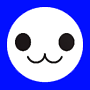
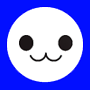
SidePanel: Player Turn Animation

Changed region(s): [[0.2889, 0.5778, 0.7111, 0.7111], [0.1556, 0.3556, 0.3778, 0.5778], [0.6444, 0.3556, 0.8444, 0.5778]]

diff --git a/src/GUI/SidePanel.java b/src/GUI/SidePanel.java
@@ -12,6 +12,8 @@ import javax.swing.border.Border;
 
 public class SidePanel extends JPanel {
 
+	JLabel turnDisplay;
+	
 	private ArrayList<JButton> buttons;
 	
 	public SidePanel(JFrame mainframe) {
@@ -31,18 +33,14 @@ public class SidePanel extends JPanel {
 		GridBagConstraints gbc = new GridBagConstraints();
 		gbc.insets = new Insets(0,0,0,0);
 
-		//cat button - this is temporary holder for player1/player2 turn
-		JButton catButton = new JButton(new ImageIcon(getClass().getResource("resource/button-cat-player-turn.png")));
-		//exitButton.setActionCommand("Exit");
-		catButton.setToolTipText("Random button");
-		catButton.setSelectedIcon(new ImageIcon(getClass().getResource("resource/button-cat-pc.png")));
-		catButton.setContentAreaFilled(false);
-		catButton.setBorder(null);
+		//player 1 or 2 turn display
+		turnDisplay = new JLabel(new ImageIcon(getClass().getResource("resource/player1-turn.png")));
+		turnDisplay.setToolTipText("Player turn");
+		turnDisplay.setBorder(null);
 		gbc.gridx = 0;
 		gbc.gridy = 0;
-		gbc.anchor = GridBagConstraints.FIRST_LINE_END;
-		add(catButton, gbc);
-		buttons.add(catButton);
+		gbc.anchor = GridBagConstraints.CENTER;
+		add(turnDisplay, gbc);
 		
 		// this is where other buttons should go
 		JLabel padding1 = new JLabel();
@@ -124,4 +122,12 @@ public class SidePanel extends JPanel {
 		return buttons;
 	}
 	
+	public void updateTurnDisplay(int playerNum) {
+		
+		if (playerNum == 1) {
+			turnDisplay.setIcon(new ImageIcon(getClass().getResource("resource/player1-turn.png")));
+		} else {
+			turnDisplay.setIcon(new ImageIcon(getClass().getResource("resource/player2-turn.png")));
+		}
+	}
 }

diff --git a/src/Game/BoardMechanics.java b/src/Game/BoardMechanics.java
@@ -390,10 +390,12 @@ public class BoardMechanics implements ActionListener, KeyListener{
 	public void update() {
 		
 		System.out.println("update running.....");
-		
+		rightPanel.updateTurnDisplay(getCurrentPlayer());
 		//check if need to do player move
-		if ( isPlayerAI(getCurrentPlayer()) )
-				doAIMove();
+		if ( isPlayerAI(getCurrentPlayer()) ) {
+			doAIMove();
+			rightPanel.updateTurnDisplay(getCurrentPlayer());
+		}
 		
 		//win checking
 	    if(checkForWin())
